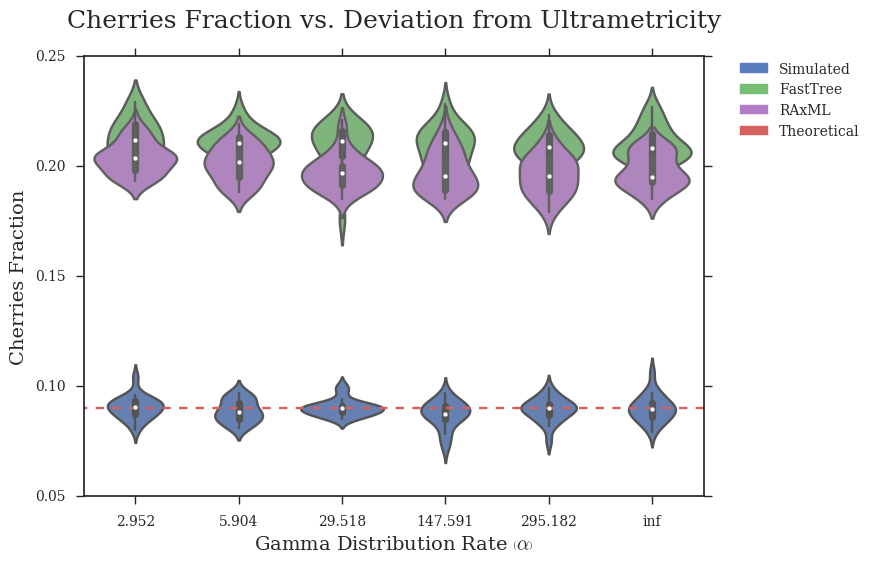
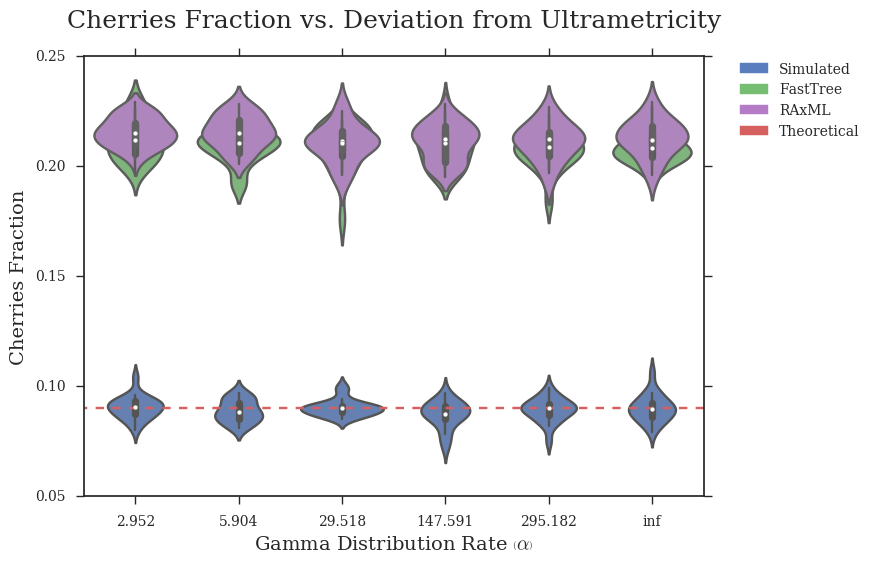
Update figure using RAxML trees with support

Changed region(s): [[0.0926, 0.151, 0.5554, 0.3925], [0.5863, 0.151, 0.8023, 0.4227]]

diff --git a/figures/scripts/1_cherries-vs-params.py b/figures/scripts/1_cherries-vs-params.py
@@ -39,12 +39,21 @@ r_fasttree = {'r':np.array([-4]*20+[-3]*20+[-2]*20+[-1]*20+[0]*20), # values of 
                                   [326,325,328,338,348,327,343,325,341,329,320,334,327,327,330,324,333,332,314,329]   # r = 1
              ).astype(float)/1000} # divide by number of leaves to get percentage
 r_raxml    = {'r':np.array([-4]*20+[-3]*20+[-2]*20+[-1]*20+[0]*20), # values of r (log-scaled)
+              'cherries':np.array([328,339,333,322,330,325,326,329,339,324,339,342,327,325,337,344,329,343,332,334] + # r = 0.0001
+                                  [275,273,274,281,283,282,284,285,290,270,289,290,281,277,264,287,259,286,287,278] + # r = 0.001
+                                  [199,215,210,215,211,228,215,192,209,208,219,225,197,206,211,212,209,209,217,200] + # r = 0.01
+                                  [243,264,248,253,258,242,241,243,247,251,252,242,255,242,248,248,240,243,256,263] + # r = 0.1
+                                  [331,322,330,336,346,326,343,327,338,328,320,332,326,327,332,324,335,330,317,331]   # r = 1
+             ).astype(float)/1000} # divide by number of leaves to get percentage
+''' # VALUES FROM ORIGINAL RAXML TREES
+r_raxml    = {'r':np.array([-4]*20+[-3]*20+[-2]*20+[-1]*20+[0]*20), # values of r (log-scaled)
               'cherries':np.array([323,334,327,320,323,323,325,325,332,314,330,334,317,320,335,334,320,332,316,326] + # r = 0.0001
                                   [261,257,262,261,249,258,265,269,272,241,273,274,264,258,243,274,237,264,271,266] + # r = 0.001
                                   [193,190,199,193,197,196,209,190,190,199,205,218,192,199,185,197,203,203,198,189] + # r = 0.01
                                   [240,256,244,250,253,239,242,238,242,240,241,237,250,236,244,244,235,237,254,256] + # r = 0.1
                                   [329,319,327,332,348,325,343,320,338,322,317,329,323,326,329,322,335,329,312,328]   # r = 1
              ).astype(float)/1000} # divide by number of leaves to get percentage
+'''
 
 # modifying r = lambdaA/lambdaB (with constant lambda = lambdaA + lambdaB)
 r2_original = {'r':np.array([-4]*20+[-3]*20+[-2]*20+[-1]*20+[0]*20), # values of r (log-scaled)
@@ -62,12 +71,21 @@ r2_fasttree = {'r':np.array([-4]*20+[-3]*20+[-2]*20+[-1]*20+[0]*20), # values of
                                   [313,303,308,314,303,307,307,290,300,313,295,303,304,306,303,310,288,300,324,310]   # r = 1
              ).astype(float)/1000} # divide by number of leaves to get percentage
 r2_raxml   = {'r':np.array([-4]*20+[-3]*20+[-2]*20+[-1]*20+[0]*20), # values of r (log-scaled)
+              'cherries':np.array([288,278,262,280,286,269,288,278,276,280,289,275,276,271,285,275,289,269,265,269] + # r = 0.0001
+                                  [234,244,233,244,242,235,238,237,236,244,233,217,251,236,239,243,230,236,224,220] + # r = 0.001
+                                  [199,215,210,215,211,228,215,192,209,208,219,225,197,206,211,212,209,209,217,200] + # r = 0.01
+                                  [258,266,273,274,259,258,254,260,256,272,259,258,273,260,262,264,263,271,265,264] + # r = 0.1
+                                  [331,321,323,327,323,319,324,316,319,335,320,324,322,325,327,331,316,331,338,326]   # r = 1
+             ).astype(float)/1000} # divide by number of leaves to get percentage
+''' # VALUES FROM ORIGINAL RAXML TREES
+r2_raxml   = {'r':np.array([-4]*20+[-3]*20+[-2]*20+[-1]*20+[0]*20), # values of r (log-scaled)
               'cherries':np.array([272,261,246,264,278,248,263,273,250,258,285,259,273,255,267,260,276,243,247,257] + # r = 0.0001
                                   [223,220,224,239,225,226,225,222,219,238,220,214,236,218,221,223,213,218,215,210] + # r = 0.001
                                   [193,190,199,193,197,196,209,190,190,199,205,218,192,199,185,197,203,203,198,189] + # r = 0.01
                                   [243,253,260,262,249,246,253,244,250,265,252,245,255,254,253,254,247,259,252,250] + # r = 0.1
                                   [329,314,322,323,320,314,319,314,312,329,317,317,313,315,318,321,310,326,332,312]   # r = 1
              ).astype(float)/1000} # divide by number of leaves to get percentage
+'''
 
 # modifying lambda = lambdaA + lambdaB
 l_original = {'lambda':np.array([33.866]*20+[84.664]*20+[169.328]*20+[338.655]*20+[846.638]*20),
@@ -85,12 +103,21 @@ l_fasttree = {'lambda':np.array([33.866]*20+[84.664]*20+[169.328]*20+[338.655]*2
                                   [233,229,217,222,225,219,217,227,222,219,246,213,233,246,209,210,232,240,218,231]   # lambda = 846.63757726278155
              ).astype(float)/1000} # divide by number of leaves to get percentage
 l_raxml    = {'lambda':np.array([33.866]*20+[84.664]*20+[169.328]*20+[338.655]*20+[846.638]*20),
+              'cherries':np.array([202,187,195,191,182,183,194,205,183,184,183,196,182,182,178,197,164,178,186,178] + # lambda = 33.86550309051126
+                                  [193,206,193,189,197,192,182,193,175,194,193,197,195,199,184,193,189,190,185,187] + # lambda = 84.66375772627816
+                                  [199,215,210,215,211,228,215,192,209,208,219,225,197,206,211,212,209,209,217,200] + # lambda = 169.32751545255631
+                                  [250,247,263,229,248,258,226,237,236,239,233,238,243,252,246,246,241,227,242,240] + # lambda = 338.65503090511262
+                                  [274,274,279,273,289,267,272,267,273,271,279,259,263,280,275,265,273,285,279,295]   # lambda = 846.63757726278155
+             ).astype(float)/1000} # divide by number of leaves to get percentage
+''' # VALUES FROM ORIGINAL RAXML TREES
+l_raxml    = {'lambda':np.array([33.866]*20+[84.664]*20+[169.328]*20+[338.655]*20+[846.638]*20),
               'cherries':np.array([200,186,190,185,183,183,194,208,190,184,180,185,182,184,177,194,170,182,181,180] + # lambda = 33.86550309051126
                                   [195,204,191,184,190,192,184,186,174,185,188,194,195,195,186,189,188,198,172,194] + # lambda = 84.66375772627816
                                   [193,190,199,193,197,196,209,190,190,199,205,218,192,199,185,197,203,203,198,189] + # lambda = 169.32751545255631
                                   [241,235,236,216,223,237,199,226,216,211,208,226,224,236,223,239,225,209,221,221] + # lambda = 338.65503090511262
                                   [270,266,263,262,286,257,267,255,263,264,266,255,256,272,260,259,256,271,263,281]   # lambda = 846.63757726278155
              ).astype(float)/1000} # divide by number of leaves to get percentage
+'''
 
 # modifying sequence length
 k_original = {'length':np.array([50]*20+[100]*20+[200]*20+[300]*20+[600]*20+[1200]*20+[2400]*20+[4800]*20), # values of length
@@ -114,6 +141,17 @@ k_fasttree = {'length':np.array([50]*20+[100]*20+[200]*20+[300]*20+[600]*20+[120
                                   [106,121,113,109,111,113,120,116,115,121,116,104,124,103,131,115,105,104,119,111]   # length = 4800
              ).astype(float)/1000} # divide by number of leaves to get percentage
 k_raxml    = {'length':np.array([50]*20+[100]*20+[200]*20+[300]*20+[600]*20+[1200]*20+[2400]*20+[4800]*20), # values of length
+              'cherries':np.array([285,293,273,278,267,270,262,280,277,286,275,276,270,277,278,279,276,272,268,277] + # length = 50
+                                  [257,250,262,256,252,260,264,255,264,257,265,263,254,250,273,251,252,257,263,256] + # length = 100
+                                  [223,225,230,231,229,239,239,238,219,229,240,219,234,242,224,233,240,238,245,229] + # length = 200
+                                  [199,215,210,215,211,228,215,192,209,208,219,225,197,206,211,212,209,209,217,200] + # length = 300
+                                  [176,175,173,175,189,187,170,170,184,181,178,184,170,182,176,175,174,179,181,177] + # length = 600
+                                  [128,140,147,159,146,158,165,146,152,156,138,149,155,146,152,151,140,156,138,145] + # length = 1200
+                                  [129,130,130,135,126,121,135,127,129,122,128,130,116,120,127,131,124,118,130,118] + # length = 2400
+                                  [104,117,109,109,112,110,119,114,113,122,113,101,122,104,126,115,103,103,121,109]   # length = 4800
+             ).astype(float)/1000} # divide by number of leaves to get percentage
+''' # VALUES FROM ORIGINAL RAXML TREES
+k_raxml    = {'length':np.array([50]*20+[100]*20+[200]*20+[300]*20+[600]*20+[1200]*20+[2400]*20+[4800]*20), # values of length
               'cherries':np.array([279,286,267,280,260,268,262,269,268,278,269,266,272,274,273,276,265,263,271,279] + # length = 50
                                   [255,245,257,237,240,240,254,240,252,251,259,253,243,250,256,235,250,253,253,255] + # length = 100
                                   [198,215,213,213,214,221,214,221,208,208,222,206,216,225,204,222,224,220,233,219] + # length = 200
@@ -123,6 +161,7 @@ k_raxml    = {'length':np.array([50]*20+[100]*20+[200]*20+[300]*20+[600]*20+[120
                                   [136,135,129,138,133,128,135,128,131,128,137,137,128,125,128,138,133,118,135,128] + # length = 2400
                                   [112,124,114,117,118,116,126,118,125,128,121,106,130,113,128,119,113,110,129,116]   # length = 4800
              ).astype(float)/1000} # divide by number of leaves to get percentage
+'''
 
 # modifying deviation from ultrametricity
 g_original = {'gammarate':np.array([2.952]*20+[5.904]*20+[29.518]*20+[147.591]*20+[295.182]*20+[float('inf')]*20),
@@ -142,6 +181,15 @@ g_fasttree = {'gammarate':np.array([2.952]*20+[5.904]*20+[29.518]*20+[147.591]*2
                                   [207,210,207,210,201,203,204,210,224,204,220,206,209,217,227,214,217,204,203,196]   # gamma = infinity
              ).astype(float)/1000} # divide by number of leaves to get percentage
 g_raxml    = {'gammarate':np.array([2.952]*20+[5.904]*20+[29.518]*20+[147.591]*20+[295.182]*20+[float('inf')]*20),
+              'cherries':np.array([225,215,219,208,219,214,209,212,210,215,215,226,210,218,223,226,221,214,203,207] + # gamma = 2.95181735298926
+                                  [213,210,203,213,220,228,217,215,205,221,209,218,212,203,226,221,225,225,215,213] + # gamma = 5.90363470597852
+                                  [199,215,210,215,211,228,215,192,209,208,219,225,197,206,211,212,209,209,217,200] + # gamma = 29.518173529892621
+                                  [213,209,218,214,198,198,223,213,212,215,218,224,219,208,203,199,219,211,202,200] + # gamma = 147.590867649463
+                                  [204,210,227,210,204,207,192,213,198,213,223,220,217,212,220,214,215,209,201,215] + # gamma = 295.181735298926
+                                  [218,209,210,216,202,220,210,211,219,203,220,211,211,225,229,213,218,214,200,194]   # gamma = infinity
+             ).astype(float)/1000} # divide by number of leaves to get percentage
+''' # VALUES FROM ORIGINAL RAXML TREES
+g_raxml    = {'gammarate':np.array([2.952]*20+[5.904]*20+[29.518]*20+[147.591]*20+[295.182]*20+[float('inf')]*20),
               'cherries':np.array([212,196,204,200,202,196,199,205,194,205,202,215,206,203,213,207,218,206,194,193] + # gamma = 2.95181735298926
                                   [199,195,189,202,211,214,202,206,195,212,191,198,188,190,202,205,209,208,198,202] + # gamma = 5.90363470597852
                                   [193,190,199,193,197,196,209,190,190,199,205,218,192,199,185,197,203,203,198,189] + # gamma = 29.518173529892621
@@ -149,6 +197,7 @@ g_raxml    = {'gammarate':np.array([2.952]*20+[5.904]*20+[29.518]*20+[147.591]*2
                                   [189,187,210,203,184,188,184,203,179,193,211,196,195,202,203,197,200,191,192,203] + # gamma = 295.181735298926
                                   [208,201,197,209,194,202,194,193,209,193,208,189,191,203,209,192,196,185,194,186]   # gamma = infinity
              ).astype(float)/1000} # divide by number of leaves to get percentage
+'''
 
 # plot cherries fraction vs. r (with different lambda = lambdaA+lambdaB to keep expected branch length constant)
 fig = plt.figure()
